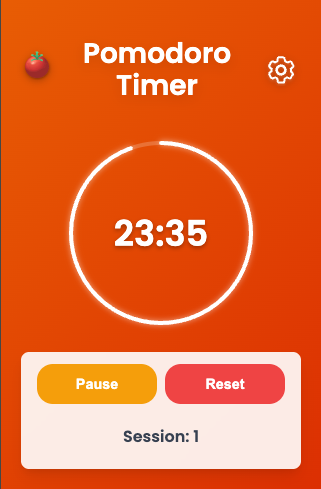
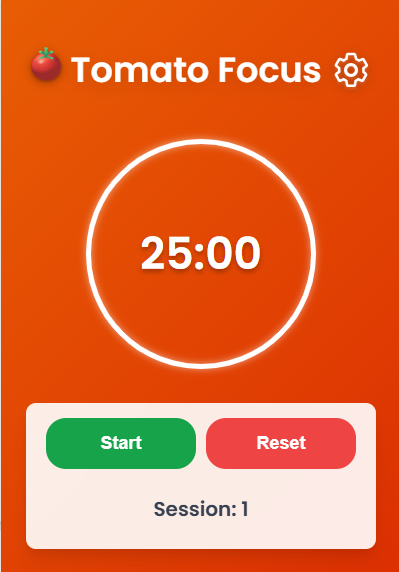
Rebrand application

diff --git a/popup.html b/popup.html
@@ -3,7 +3,7 @@
 <head>
     <meta charset="UTF-8">
     <meta name="viewport" content="width=device-width, initial-scale=1.0">
-    <title>Pomodoro Timer</title>
+    <title>Tomato Focus</title>
     <link href="https://fonts.googleapis.com/css2?family=Poppins:wght@400;600&display=swap" rel="stylesheet">
     <link rel="stylesheet" href="styles.css">
 </head>
@@ -15,7 +15,7 @@
                 <div id="sessionIcon" class="session-icon">
                     <img src="icons/icon.svg" alt="Tomato" width="32" height="32">
                 </div>
-                <h1 id="sessionTitle" class="text-3xl font-bold text-white drop-shadow-lg">Pomodoro Timer</h1>
+                <h1 id="sessionTitle" class="text-3xl font-bold text-white drop-shadow-lg">Tomato Focus</h1>
                 <button id="settingsBtn" class="settings-icon">
                     <img src="icons/settings-icon.svg" alt="Settings" width="32" height="32">
                 </button>

diff --git a/background.js b/background.js
@@ -131,16 +131,16 @@ function handleSessionEnd() {
         currentSession++;
         if (currentSession % settings.longBreakInterval === 0) {
             timeLeft = settings.longBreak * 60;
-            showNotification('Pomodoro Timer', 'Time for a long break!');
+            showNotification('Tomato Focus', 'Time for a long break!');
         } else {
             timeLeft = settings.shortBreak * 60;
-            showNotification('Pomodoro Timer', 'Time for a short break!');
+            showNotification('Tomato Focus', 'Time for a short break!');
         }
         isWorkSession = false;
     } else {
         timeLeft = settings.workDuration * 60;
         isWorkSession = true;
-        showNotification('Pomodoro Timer', 'Time to work!');
+        showNotification('Tomato Focus', 'Time to work!');
     }
     updateTimerDisplay();
     

diff --git a/popup.js b/popup.js
@@ -148,7 +148,7 @@ document.addEventListener('DOMContentLoaded', () => {
                 sessionIconImg.src = 'icons/icon.svg';
                 sessionIconImg.alt = 'Tomato';
             }
-            sessionTitle.textContent = 'Pomodoro Timer';
+            sessionTitle.textContent = 'Tomato Focus';
         }
         
         // Update button visibility and text based on timer state

diff --git a/README.md b/README.md
@@ -1,10 +1,13 @@
-# 🍅 Focus Timer – A Chrome Extension for Productivity
+<div align="center" style="display: flex; align-items: center; justify-content: left; gap: 20px;">
+  <img src="docs/logo.png" alt="Tomato Focus Logo" width="80"/>
+  <h1 style="margin:0; white-space: nowrap;">🍅 Tomato Focus – A Chrome Extension for Productivity</h1>
+</div>
 
 A configurable **time-management Chrome extension** that helps boost productivity by using a method inspired by the Pomodoro® Technique. This extension provides a beautiful, intuitive interface with customizable timing, notifications, and visual feedback to help you maintain focus during work sessions and ensure you take proper breaks.
 
 <p align="center">
   <img src="docs/timer_screen.png" alt="Timer" width="45%" style="display:inline-block; margin-right:10px;"/>
-  <img src="docs/settings_screen.png" alt="Settings" width="45%" style="display:inline-block;"/>
+  <img src="docs/settings_screen.png" alt="Settings" width="43%" style="display:inline-block;"/>
 </p>
 
 > **Disclaimer**: This project is **not affiliated with**, **endorsed by**, or **licensed by** Francesco Cirillo or the official Pomodoro® Technique. “Pomodoro®” is a registered trademark of Francesco Cirillo.  
